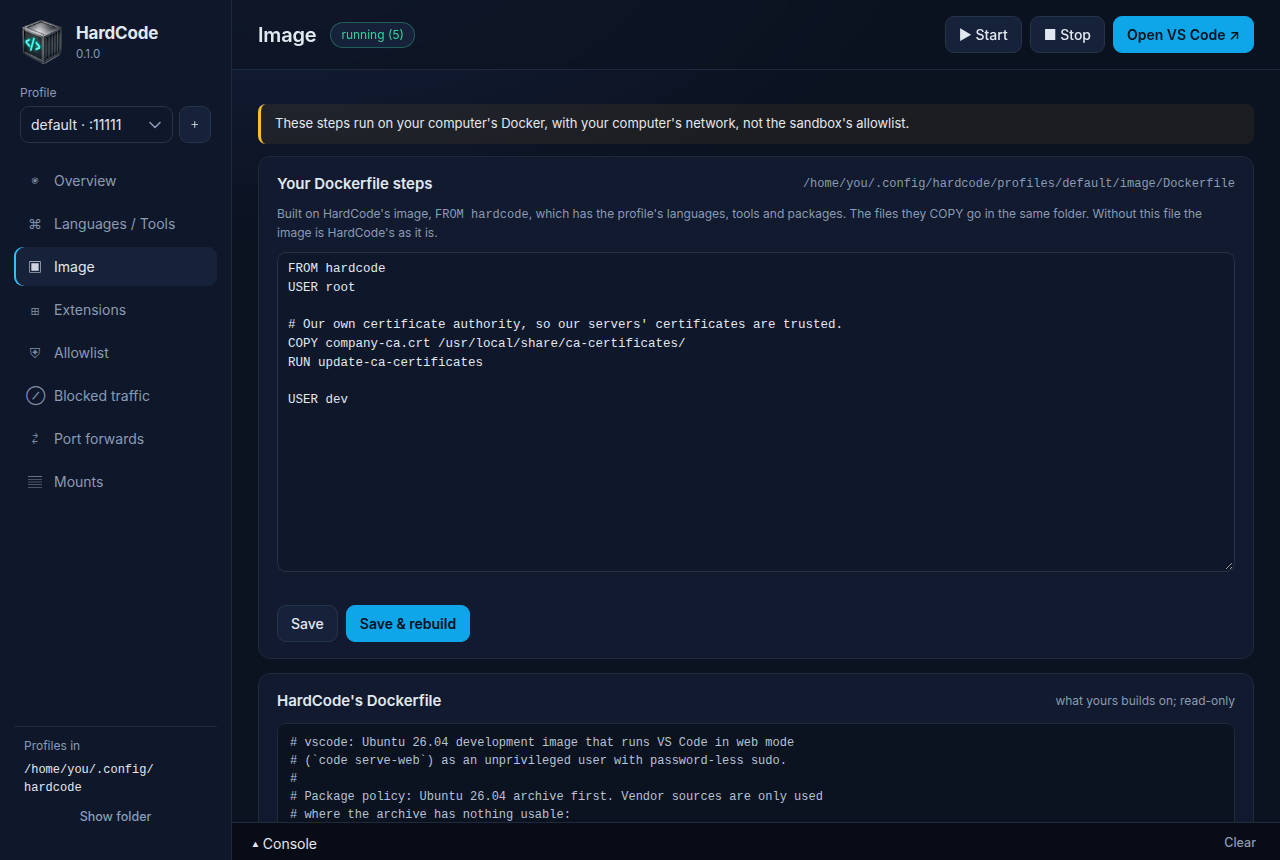
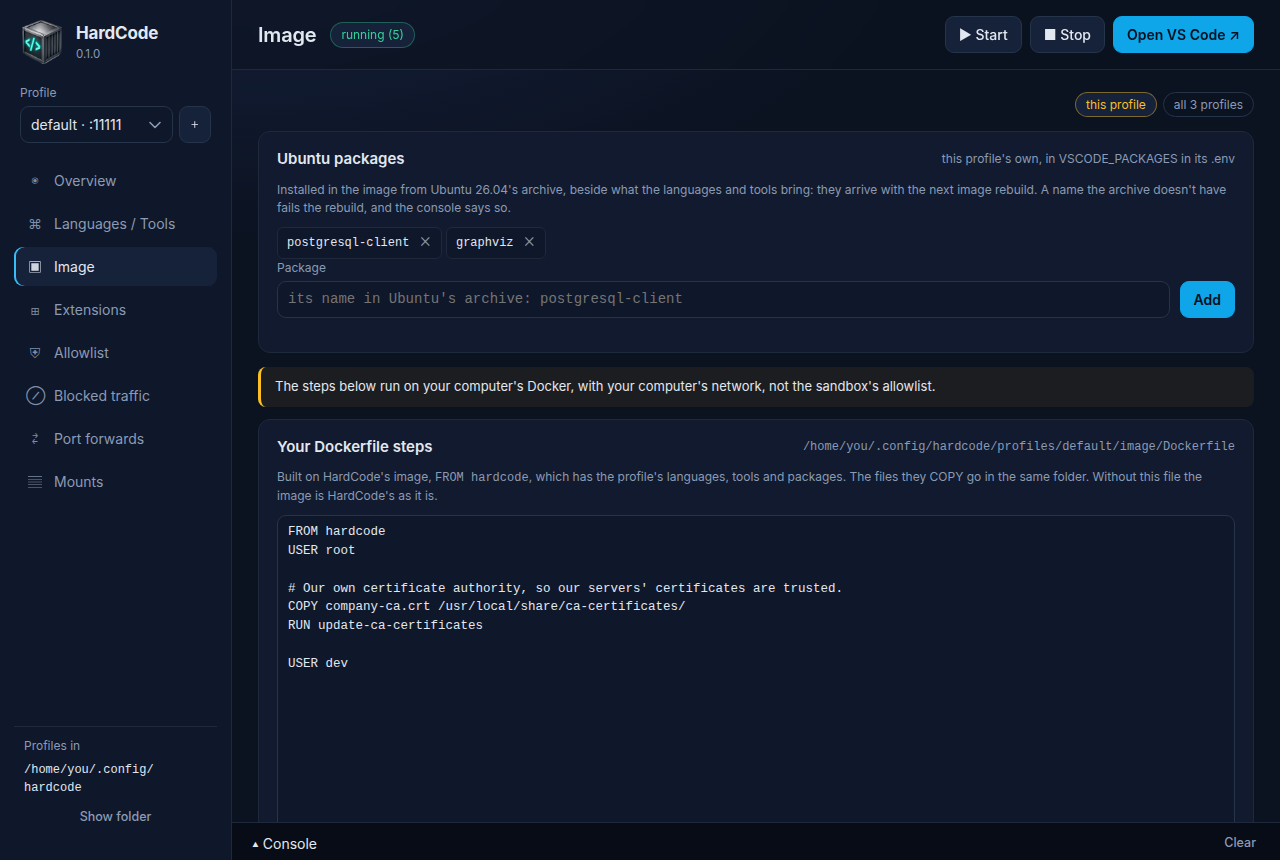
feat(app): Ubuntu packages at the top of the Image page
The Ubuntu packages card moves from Languages / Tools to the top of the
Image page, above the steps run on your computer's Docker: packages are
part of what the image is built with, beside the rebuild they need.

- app.js: imageView() starts with the scope chips, the scope note, the
  rebuild callout and the packages card, shown while the steps load too;
  the smoke run's checkView requires the packages card first on the Image
  page, and checkPackages looks for it there.
- docs/app.md, docs/troubleshooting.md: the packages paragraph moves to the
  Image section; the screenshot is regenerated.

Tests: tests/app.py 22 passed, 0 failed (in the build image, with the
Docker daemon for the smoke run's logs dialog); tests/lint.py 5 passed.

diff --git a/app/src/app.js b/app/src/app.js
@@ -12,8 +12,8 @@
  * in the image. So the Languages / Tools view comes right after the
  * Overview, a new profile starts with choosing them, and the Extensions and
  * Allowlist views say what came from which language. The image has the
- * profile's own Ubuntu packages too (the Languages / Tools view's last card)
- * and its own Dockerfile steps (the Image view), built on HardCode's.
+ * profile's own Ubuntu packages too, and its own Dockerfile steps, built on
+ * HardCode's: both on the Image view, packages first.
  *
  * The extensions aren't in the image: a running VS Code container installs
  * and removes them in the background, within seconds of a change. The page
@@ -1491,8 +1491,8 @@ function imageBadge(lang) {
 /**
  * The Languages / Tools view: what the profile is built around. A card per
  * language, then per tool, each with its switch, its toolchain or CLI, the
- * allowlist entries it opens and the extensions it brings; then the
- * profile's own Ubuntu packages.
+ * allowlist entries it opens and the extensions it brings. (The profile's
+ * own Ubuntu packages are on the Image view, with its own steps.)
  */
 function langs() {
   const data = state.data;
@@ -1524,8 +1524,7 @@ function langs() {
     <h3 class="group-title">Languages</h3>
     <div class="lang-grid">${languages.map(langCard).join('')}</div>
     <h3 class="group-title">Tools</h3>
-    <div class="lang-grid">${tools.map(langCard).join('')}</div>
-    ${packagesCard()}`;
+    <div class="lang-grid">${tools.map(langCard).join('')}</div>`;
 }
 
 /** One language's or tool's card: its switch, its toolchain, what it opens and what it brings. */
@@ -1573,7 +1572,7 @@ function packagesCard() {
   const none = '<span class="muted small">None yet.</span>';
 
   return `
-    <div class="card" id="packages-card" style="margin-top:14px">
+    <div class="card" id="packages-card" style="margin-bottom:14px">
       <div class="card-head"><h2>Ubuntu packages</h2><span class="muted small">this profile's own, in VSCODE_PACKAGES in its .env</span></div>
       <p class="muted small">Installed in the image from Ubuntu 26.04's archive, beside what the languages and tools bring: they arrive with the next image rebuild. A name the archive doesn't have fails the rebuild, and the console says so.</p>
       <div class="tags">${chips || none}</div>
@@ -1596,22 +1595,30 @@ function packageChip(name) {
   );
 }
 
-// -- the Image: the profile's own Dockerfile steps ---------------------------------
+// -- the Image: the profile's own packages and Dockerfile steps --------------------
 
 /**
- * The Image view: the profile's own Dockerfile steps in a plain editor,
- * with Save and Save & rebuild (the rebuild streams to the console), and
- * HardCode's Dockerfile they are built on, to read. The steps run on this
- * computer's Docker, which the view says first. A profile without the file
- * gets the starter in the editor, written when it is saved.
+ * The Image view: what the profile adds to HardCode's image. First its own
+ * Ubuntu packages, the simple way, which can apply to every profile (the
+ * scope chips); then its own Dockerfile steps in a plain editor, for what a
+ * package can't do, with Save and Save & rebuild (the rebuild streams to the
+ * console), and HardCode's Dockerfile they are built on, to read. The steps
+ * run on this computer's Docker, which the view says above them. A profile
+ * without the file gets the starter in the editor, written when it is saved.
  */
 function imageView() {
+  const toolbar = profileCount() > 1 ? `<div class="toolbar"><span class="spacer"></span>${scopeChips('package changes')}</div>` : '';
+  const top = `${toolbar}
+    ${scopeNote('Adding or removing a package changes it in every profile')}
+    ${rebuildCallout('rebuild-image')}
+    ${packagesCard()}`;
+
   const steps = state.imageSteps;
   if (!steps) {
     const why = state.imageStepsError
       ? `The Dockerfile steps couldn't be read: ${state.imageStepsError}`
       : 'Reading the Dockerfile steps…';
-    return `<div class="empty">${esc(why)}</div>`;
+    return `${top}<div class="empty">${esc(why)}</div>`;
   }
 
   const busy = state.running ? 'disabled' : '';
@@ -1620,8 +1627,8 @@ function imageView() {
   const where = steps.exists ? steps.path : `${steps.path} (not there yet: Save writes it)`;
 
   return `
-    <div class="callout">These steps run on your computer's Docker, with your computer's network, not the sandbox's allowlist.</div>
-    ${rebuildCallout('rebuild-image')}
+    ${top}
+    <div class="callout">The steps below run on your computer's Docker, with your computer's network, not the sandbox's allowlist.</div>
     <div class="card">
       <div class="card-head"><h2>Your Dockerfile steps</h2><span class="muted small mono">${esc(where)}</span></div>
       <p class="muted small">Built on HardCode's image, <span class="mono">FROM hardcode</span>, which has the profile's languages, tools and packages. The files they COPY go in the same folder. Without this file the image is HardCode's as it is.</p>
@@ -2443,7 +2450,7 @@ function bindExtensions() {
   });
 }
 
-/** The Ubuntu packages card's form and ✕ buttons, on the Languages / Tools view. */
+/** The Ubuntu packages card's form and ✕ buttons, on the Image view. */
 function bindPackages() {
   const input = $('#pkg-name');
   if (input) {
@@ -3034,8 +3041,9 @@ async function waitUntil(condition, milliseconds) {
 
 /**
  * What a view must show once it is open: the Languages / Tools view its
- * name, a card for every language and tool and the Ubuntu packages card
- * with its form, the Extensions view its groups and its form.
+ * name and a card for every language and tool, the Image view the Ubuntu
+ * packages card with its form first, the Extensions view its groups and
+ * its form.
  */
 function checkView(view, errors) {
   if (view === 'langs') {
@@ -3049,8 +3057,12 @@ function checkView(view, errors) {
       errors.push(`the Languages / Tools view shows ${cards} cards for ${state.data.langs.length} languages and tools`);
     }
 
-    if (!$('#packages-card') || !$('#pkg-name')) {
-      errors.push('the Languages / Tools view has no Ubuntu packages card with its form');
+  }
+
+  if (view === 'image') {
+    const first = $('#view').querySelector('.card');
+    if (!$('#packages-card') || !$('#pkg-name') || first !== $('#packages-card')) {
+      errors.push('the Image view has no Ubuntu packages card, with its form, at the top');
     }
   }
 
@@ -3190,7 +3202,7 @@ async function checkAllowlistAdd(errors) {
  * in the profile's state; its ✕ takes it away again.
  */
 async function checkPackages(errors) {
-  showView('langs');
+  showView('image');
   await sleep(200);
 
   $('#pkg-name').value = 'Not_A_Package';

diff --git a/docs/app.md b/docs/app.md
@@ -138,10 +138,6 @@ A switch changes three things, at different times, as the banner says:
 Before the first start there is no image yet: it is built with the chosen
 languages and tools at the first **▶ Start**.
 
-**Ubuntu packages**, below the tools, adds packages of your own to the
-image: type a name and click **Add**; **✕** removes one. The next
-rebuild installs them, and **Rebuild image** appears until then.
-
 ## Extensions
 
 ![Extensions](images/app-extensions.png)
@@ -260,8 +256,14 @@ included, can change files that your computer later runs. Read
 
 ![Image](images/app-image.png)
 
-Your own Dockerfile steps, built on top of HardCode's image, for what a
-package can't do. A new profile has none: the editor starts with an
+What you add to HardCode's image. First, **Ubuntu packages** of your own:
+type a name and click **Add**; **✕** removes one. The next rebuild
+installs them, and **Rebuild image** appears until then. With more than
+one profile, **this profile** and **all profiles** say which ones a change
+is for.
+
+Then your own Dockerfile steps, built on top of HardCode's image, for what
+a package can't do. A new profile has none: the editor starts with an
 example to begin from. **Save** keeps your steps, and **Save & rebuild**
 also builds the image, in the Console. Below the editor is HardCode's own
 Dockerfile, which your steps build on.

diff --git a/docs/troubleshooting.md b/docs/troubleshooting.md
@@ -214,7 +214,7 @@ NAME`, or its switch on the Overview page, and start again.
 
 One of the profile's Ubuntu packages isn't in Ubuntu 26.04 under that
 name. Check the spelling, or remove it with `hardcode package remove
-NAME` (or its **✕** on the Languages / Tools page), and rebuild.
+NAME` (or its **✕** on the Image page), and rebuild.
 
 ### A rebuild fails in your own Dockerfile steps
 
